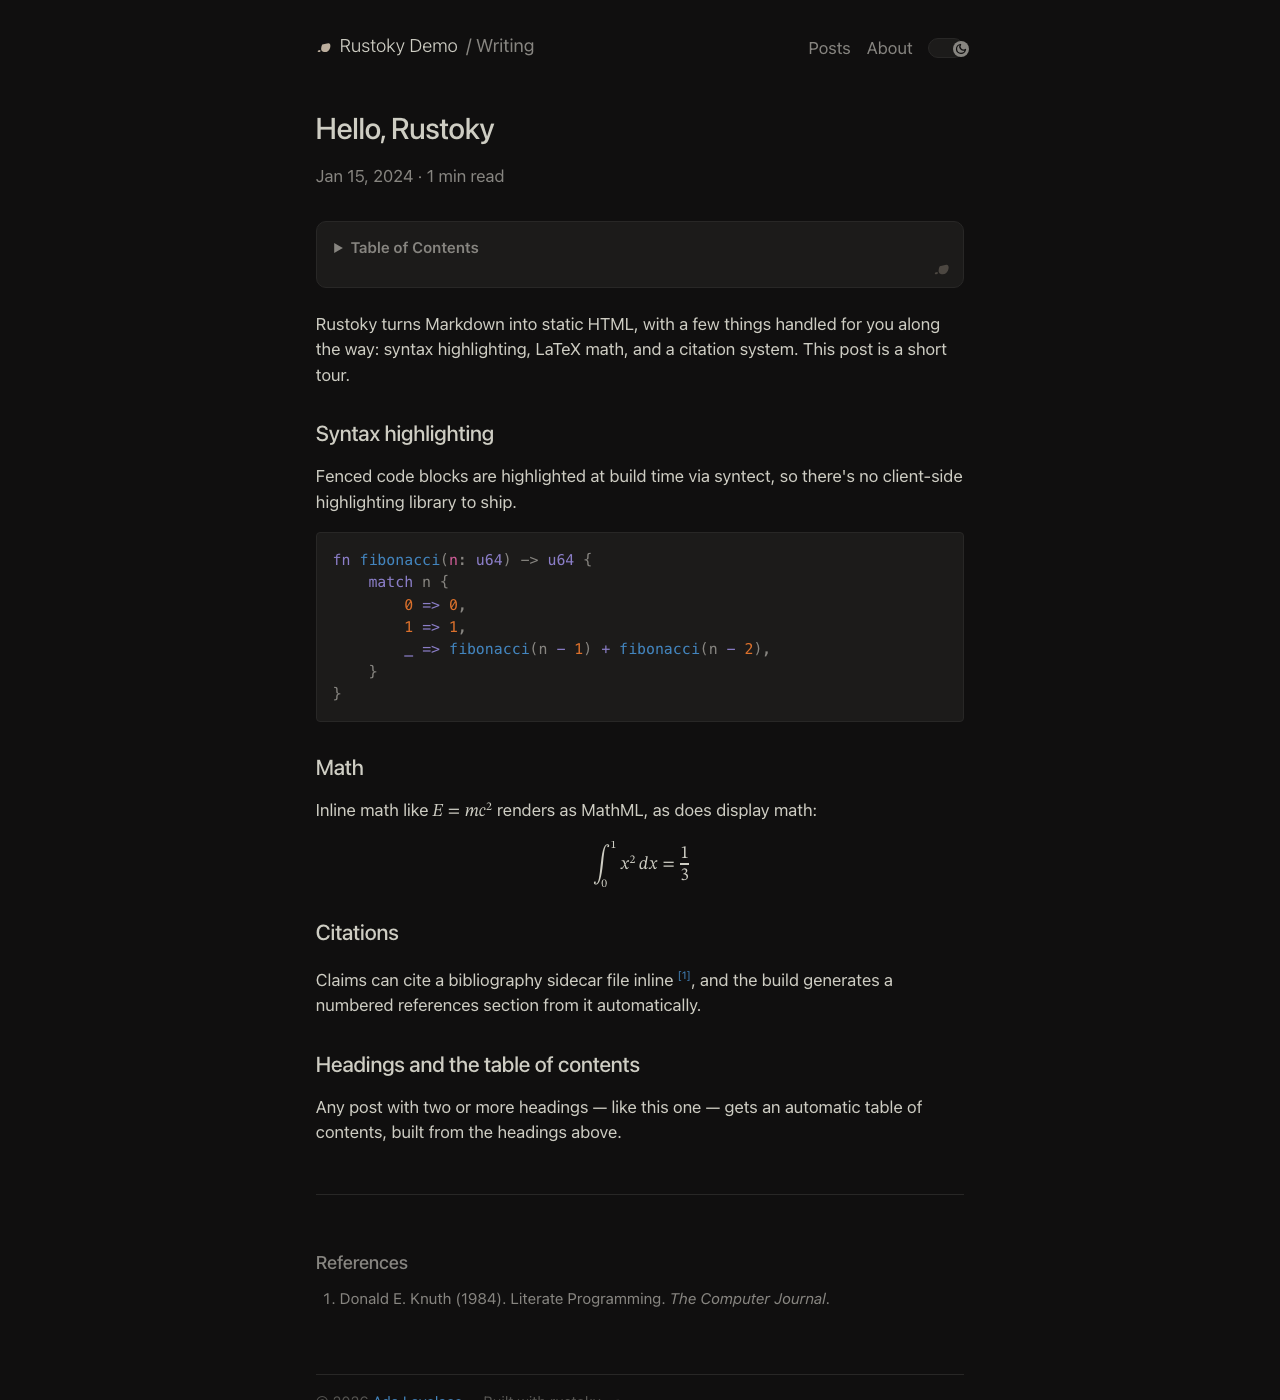
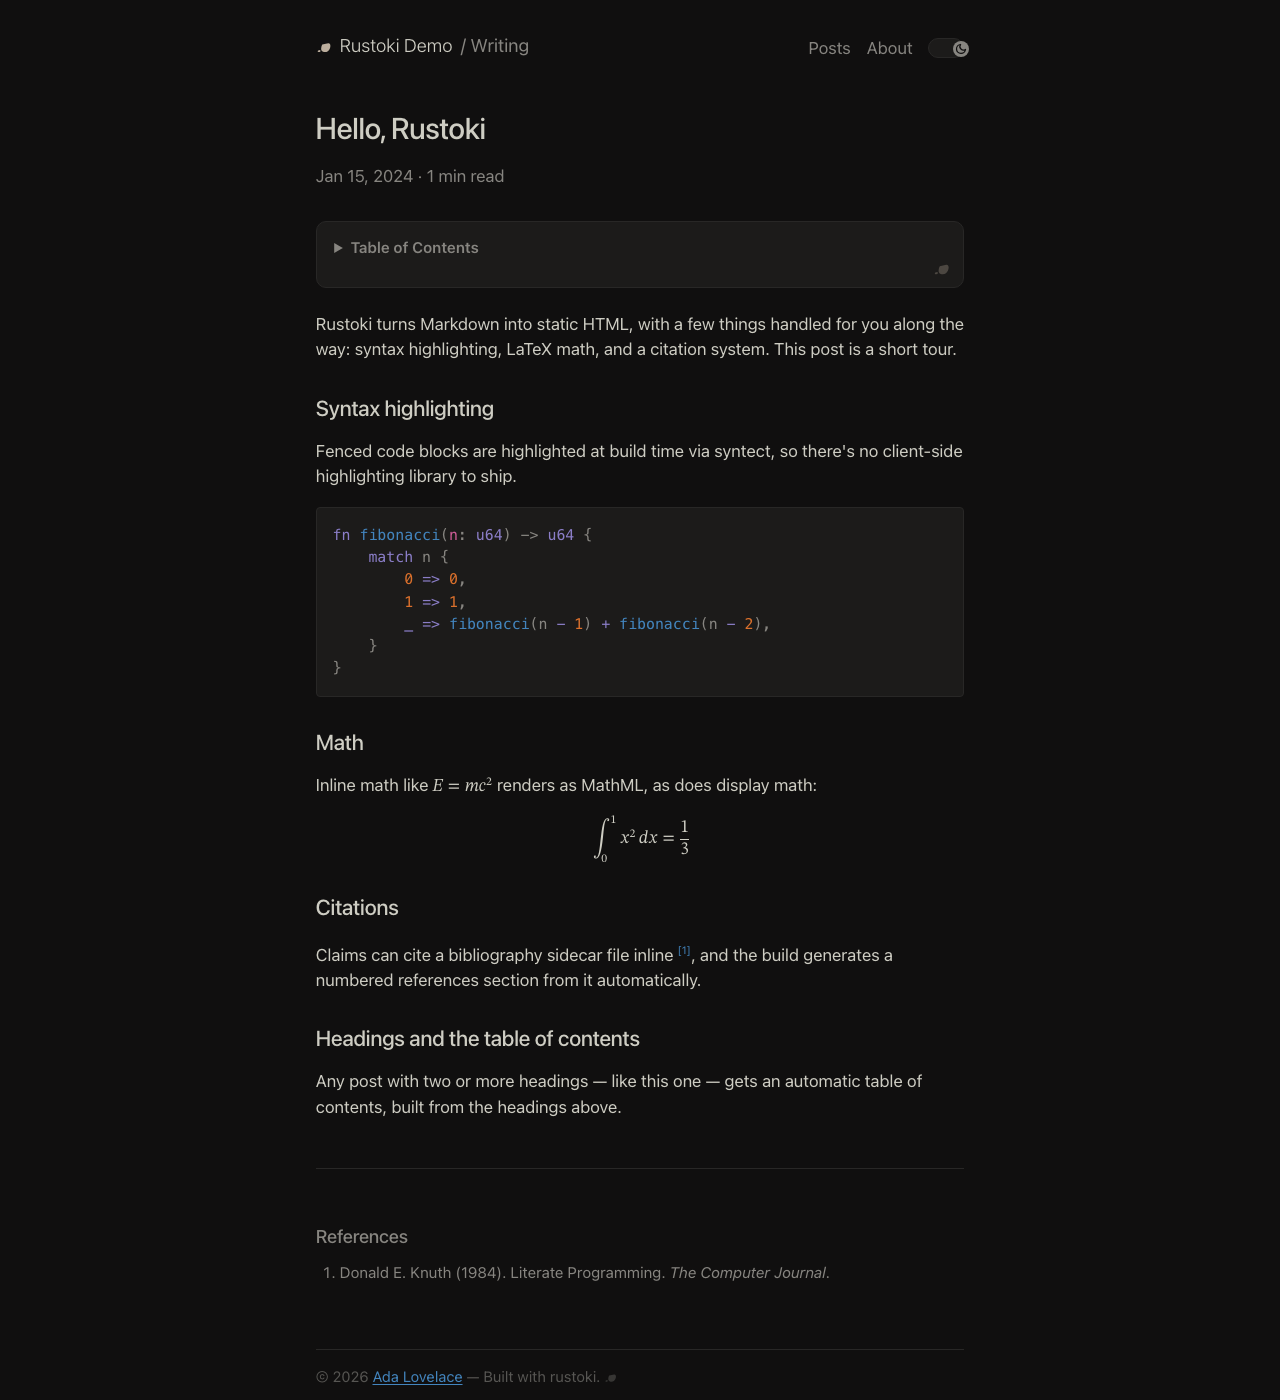
chore: rename project from rustoky to rustoki

diff --git a/src/main.rs b/src/main.rs
@@ -1,6 +1,6 @@
-//! `rustoky` — a Rust static site generator with a Flexoki-themed default look.
+//! `rustoki` — a Rust static site generator with a Flexoki-themed default look.
 //!
-//! `rustoky build` is the core subcommand (`serve` and `new-post` build on top
+//! `rustoki build` is the core subcommand (`serve` and `new-post` build on top
 //! of it). Run from a site's root directory, it loads `content/config.toml`,
 //! walks `content/posts/` and `content/pages/`, renders each markdown source
 //! through the pulldown-cmark → syntect/pulldown-latex pipeline, wraps the
@@ -47,7 +47,7 @@ fn main() -> ExitCode {
             match parse_port(&rest) {
                 Ok(port) => cmd_serve(include_drafts, port),
                 Err(e) => {
-                    eprintln!("rustoky: {e}");
+                    eprintln!("rustoki: {e}");
                     return ExitCode::from(2);
                 }
             }
@@ -57,14 +57,14 @@ fn main() -> ExitCode {
             match title {
                 Some(t) if !t.trim().is_empty() => cmd_new_post(&t),
                 _ => {
-                    eprintln!("rustoky: new-post requires a non-empty title argument");
-                    eprintln!("usage: rustoky new-post \"<title>\"");
+                    eprintln!("rustoki: new-post requires a non-empty title argument");
+                    eprintln!("usage: rustoki new-post \"<title>\"");
                     return ExitCode::from(2);
                 }
             }
         }
         Some(other) => {
-            eprintln!("rustoky: unknown subcommand '{other}'");
+            eprintln!("rustoki: unknown subcommand '{other}'");
             usage();
             return ExitCode::from(2);
         }
@@ -77,15 +77,15 @@ fn main() -> ExitCode {
     match result {
         Ok(()) => ExitCode::SUCCESS,
         Err(e) => {
-            eprintln!("rustoky: error: {e:#}");
+            eprintln!("rustoki: error: {e:#}");
             ExitCode::FAILURE
         }
     }
 }
 
 fn usage() {
-    eprintln!("rustoky v{}", env!("CARGO_PKG_VERSION"));
-    eprintln!("usage: rustoky <build [--drafts] | serve [--drafts] [--port <n>] | new-post \"<title>\">");
+    eprintln!("rustoki v{}", env!("CARGO_PKG_VERSION"));
+    eprintln!("usage: rustoki <build [--drafts] | serve [--drafts] [--port <n>] | new-post \"<title>\">");
     eprintln!();
     eprintln!("  build              Render content/ to public/.");
     eprintln!("    --drafts         Also render draft: true posts, for local preview.");

diff --git a/src/assets.rs b/src/assets.rs
@@ -108,12 +108,12 @@ pub fn optimize(static_root: &Path, cache_root: &Path) -> (ImageManifest, Optimi
     let have_gif2webp = tool_available("gif2webp");
     if !have_cwebp {
         eprintln!(
-            "rustoky: warning: `cwebp` not found on PATH; shipping unoptimized images. \
+            "rustoki: warning: `cwebp` not found on PATH; shipping unoptimized images. \
              Install it with `brew install webp` or `apt-get install -y webp`."
         );
     }
     if !have_gif2webp {
-        eprintln!("rustoky: warning: `gif2webp` not found on PATH; GIFs will ship unoptimized.");
+        eprintln!("rustoki: warning: `gif2webp` not found on PATH; GIFs will ship unoptimized.");
     }
     if !have_cwebp && !have_gif2webp {
         return (manifest, report);
@@ -157,13 +157,13 @@ pub fn optimize(static_root: &Path, cache_root: &Path) -> (ImageManifest, Optimi
         if !fresh {
             if let Some(parent) = out.parent() {
                 if let Err(e) = std::fs::create_dir_all(parent) {
-                    eprintln!("rustoky: warning: creating {}: {e}", parent.display());
+                    eprintln!("rustoki: warning: creating {}: {e}", parent.display());
                     report.skipped += 1;
                     continue;
                 }
             }
             if let Err(e) = encode(&src, &out, is_gif) {
-                eprintln!("rustoky: warning: optimizing {}: {e}", src.display());
+                eprintln!("rustoki: warning: optimizing {}: {e}", src.display());
                 let _ = std::fs::remove_file(&out);
                 report.skipped += 1;
                 continue;
@@ -191,7 +191,7 @@ pub fn optimize(static_root: &Path, cache_root: &Path) -> (ImageManifest, Optimi
         let Ok(dims) = imagesize::size(&out) else {
             // Unreadable output — leave no stamp, so this retries next build
             // instead of caching a failure.
-            eprintln!("rustoky: warning: couldn't read dimensions of {}", out.display());
+            eprintln!("rustoki: warning: couldn't read dimensions of {}", out.display());
             let _ = std::fs::remove_file(&out);
             report.skipped += 1;
             continue;

diff --git a/src/render/tweet.rs b/src/render/tweet.rs
@@ -136,7 +136,7 @@ fn get_or_fetch(id: &str, cache: &mut Cache, dirty: &mut bool) -> Option<Tweet> 
         }
         Err(e) => {
             eprintln!(
-                "rustoky: warning: couldn't fetch tweet {id} ({e}); leaving raw embed markup"
+                "rustoki: warning: couldn't fetch tweet {id} ({e}); leaving raw embed markup"
             );
             None
         }

diff --git a/README.md b/README.md
@@ -1,4 +1,4 @@
-# rustoky
+# rustoki
 
 A small, opinionated static site generator written in Rust. Markdown in,
 static HTML out—with syntax highlighting, LaTeX math, figures, a
@@ -11,7 +11,7 @@ installed and reused independently of that blog's content.
 
 ## Design
 
-Rustoky is built around one idea: a static site should stay static. Nothing
+Rustoki is built around one idea: a static site should stay static. Nothing
 that can be resolved at build time is deferred to the reader's browser.
 
 - **One binary, no runtime.** `cargo install` produces a single ~6.5 MB
@@ -44,29 +44,29 @@ Run these from the root of a site directory (one containing `content/`):
 
 ```sh
 # Install a specific tagged release (recommended — see Releasing below)
-cargo install --git https://github.com/alcazar90/rustoky --tag v0.1.0 --locked
+cargo install --git https://github.com/alcazar90/rustoki --tag v0.1.0 --locked
 
 # Or track the default branch instead of a pinned release
-cargo install --git https://github.com/alcazar90/rustoky --locked
+cargo install --git https://github.com/alcazar90/rustoki --locked
 
 # Build content/ -> public/
-rustoky build
+rustoki build
 
 # Build including draft: true posts, for local preview only
-rustoky build --drafts
+rustoki build --drafts
 
 # Build (optionally --drafts), then serve public/ at http://127.0.0.1:8000/
-rustoky serve --drafts
-rustoky serve --port 3000
+rustoki serve --drafts
+rustoki serve --port 3000
 
 # Scaffold a new post at content/posts/YYYY-MM-DD-<slug>.md
-rustoky new-post "My Post Title"
+rustoki new-post "My Post Title"
 ```
 
 For local development against this repo instead of a published version:
 
 ```sh
-cargo install --path /path/to/rustoky --locked
+cargo install --path /path/to/rustoki --locked
 ```
 
 ## What a site needs
@@ -129,13 +129,13 @@ git tag -a v0.2.0 -m "v0.2.0"
 git push origin main --tags
 
 # 3. In a consuming site, pin to the new tag
-cargo install --git https://github.com/alcazar90/rustoky --tag v0.2.0 --locked
+cargo install --git https://github.com/alcazar90/rustoki --tag v0.2.0 --locked
 ```
 
 Pre-1.0, don't over-think semver strictness: bump the middle number for any
 notable change (feature or breaking), the last for trivial fixes. A
 consuming site should always pin `--tag`, never track a branch — that way
-shipping a new rustoky feature is a deliberate one-line version bump in that
+shipping a new rustoki feature is a deliberate one-line version bump in that
 site's own repo, not something that happens silently on its next unrelated
 deploy.
 

diff --git a/CLAUDE.md b/CLAUDE.md
@@ -4,14 +4,14 @@ This file provides guidance to Claude Code (claude.ai/code) when working with co
 
 ## What this is
 
-`rustoky` — a standalone Rust static site generator (not a Cargo workspace,
+`rustoki` — a standalone Rust static site generator (not a Cargo workspace,
 one binary crate) that reads Markdown content and renders it to static HTML.
 It was extracted from a personal blog's repo so the generator can be
 installed and reused independently of any one site's content. It ships with
 one baked-in Flexoki-themed look — see "Design principles" below for what
 that means for extending it.
 
-A site that uses `rustoky` supplies a `content/` directory (config, posts,
+A site that uses `rustoki` supplies a `content/` directory (config, posts,
 pages, static assets) and runs the installed binary against it; this repo
 owns no content of its own.
 
@@ -44,7 +44,7 @@ There is no lint/format CI step defined in this repo beyond `cargo test`; use `c
 
 ## Layout
 
-- `src/` — all production logic (single binary crate, `[[bin]] name = "rustoky"`).
+- `src/` — all production logic (single binary crate, `[[bin]] name = "rustoki"`).
 - `templates/*.html` — minijinja templates, baked into the binary via `include_str!` (not read from disk at runtime).
 - `styles/main.css` — single stylesheet, inlined into every page's `<head>` at build time via `include_str!` (no external CSS request, no separate CSS file ships in `public/`).
 - `example/` — a small demo site (its own `content/`) used to preview the generator and produce the screenshots in `README.md`. Not part of the crate; run against it with `cargo run --manifest-path ../Cargo.toml -- serve` from inside `example/`.

diff --git a/example/content/posts/2024-02-03-writing-a-post.md b/example/content/posts/2024-02-03-writing-a-post.md
@@ -1,13 +1,13 @@
 ---
 title: "Writing a post"
 date: 2024-02-03
-description: "How posts and drafts work in rustoky."
+description: "How posts and drafts work in rustoki."
 tags: ["demo"]
 ---
 
-New posts are scaffolded with `rustoky new-post "Title"`, which creates a
+New posts are scaffolded with `rustoki new-post "Title"`, which creates a
 file at `content/posts/YYYY-MM-DD-<slug>.md` with a `draft: true` stub.
 
-Drafts are skipped by a plain `rustoky build`. Pass `--drafts` to render them
+Drafts are skipped by a plain `rustoki build`. Pass `--drafts` to render them
 locally — with a "Draft" badge on the post and the home listing — while
 still keeping them out of `feed.xml` and `sitemap.xml`.

diff --git a/example/content/posts/2024-01-15-hello-rustoki.md b/example/content/posts/2024-01-15-hello-rustoki.md
@@ -1,11 +1,11 @@
 ---
-title: "Hello, Rustoky"
+title: "Hello, Rustoki"
 date: 2024-01-15
-description: "A short tour of what rustoky renders out of the box: code, math, and citations."
-tags: ["demo", "rustoky"]
+description: "A short tour of what rustoki renders out of the box: code, math, and citations."
+tags: ["demo", "rustoki"]
 ---
 
-Rustoky turns Markdown into static HTML, with a few things handled for you
+Rustoki turns Markdown into static HTML, with a few things handled for you
 along the way: syntax highlighting, LaTeX math, and a citation system. This
 post is a short tour.
 
